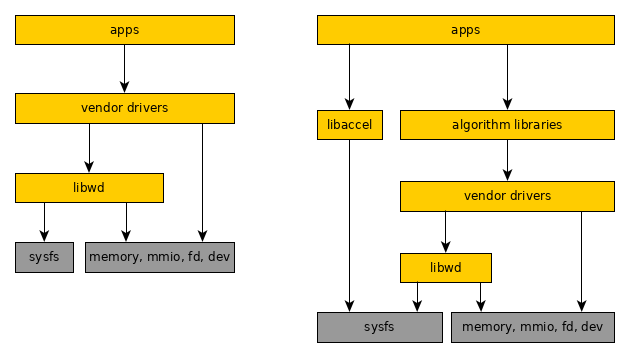
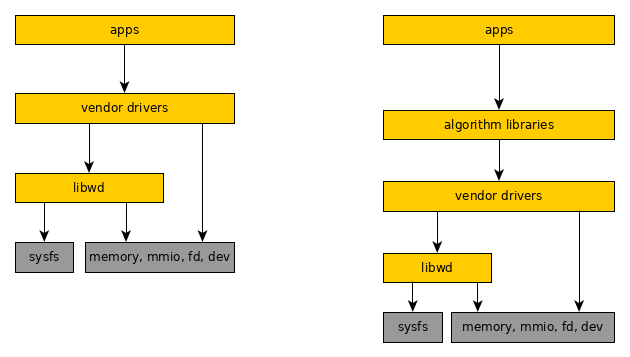
doc/wd_design: revision 0.104
Merge libaccel into libwd.

diff --git a/docs/wd_design.md b/docs/wd_design.md
@@ -54,6 +54,7 @@
 |         |                |2) Fix typo error. |
 |         |                |3) Add context as parameter of wd_is_nosva(). |
 |         |                |4) Adjust the layout. |
+|  0.104  |                |1) Merge libaccel into libwd. |
 
 
 ## Terminology
@@ -71,7 +72,7 @@
 
 WarpDrive is a framework for user application to access hardware accelerator 
 in a unified, secure, and efficient way. WarpDrive is comprised of UACCE, 
-libwd, libaccel and many other algorithm libraries for different applications.
+libwd and many other algorithm libraries for different applications.
 
 ![overview](./wd_overview.png)
 
@@ -83,12 +84,10 @@ functions to do UACCE related work.
 Algorithm libraries offer a set of APIs to users, who could use this set of 
 APIs to do specific task without accessing low level implementations.
 
-Libaccel offers the ability to choose a right accelerator.
-
 So two mechanisms are provided to user application. User application could 
 either access libwd or algorithm libraries.
 
-This document focuses on the design of libwd, libaccel and algorithm libraries.
+This document focuses on the design of libwd and algorithm libraries.
 
 
 ## Based Technology
@@ -212,6 +211,102 @@ enum uacce_qfrt qfrt);***
 
 qfrt means queue file region type. The details could be found in UACCE kernel 
 patch set <https://lkml.org/lkml/2019/11/22/1728>.
+
+
+### Categorize Accelerators
+
+*wd_request_ctx()* only opens the specified hardware accelerator. If there're 
+mulitple hardware accelerators in system, vendor driver should decide to open 
+which accelerator. Libwd helps to categorize accelerators. It provides a set of 
+hardware accelerators that match the same requirement. Vendor driver or 
+application could make a decision based on the set.
+
+When each hardware accelerator registers in UACCE subsystem, it gets an ID that 
+is attached in the device name. And the ID information is exposed to user space 
+by sysfs. So libwd could parse IDs from sysfs and make use of them.
+
+```
+    #define MAX_ACCELS               512
+    #define MAX_WORDS_FOR_ACCELS     (MAX_ACCELS / 32)
+    
+    struct wd_dev_mask {
+        unsigned int    mask[MAX_WORDS_FOR_ACCELS];
+    };
+    typedef struct wd_dev_mask    wd_dev_mask_t;
+```
+
+MAX_ACCELS is predefined in libwd. Now MAX_ACCELS is 512 that means 512 
+accelerators are supported in the same time. Each accelerator could be denoted 
+by one bit. So 512 bits could be covered by 16 words. These 16 words are the 
+masks, *wd_dev_mask_t*. If more accelerators need to be supported, just extend 
+the value of MAX_ACCELS in WarpDrive. The lowest bit indicates the hardware 
+accelerator 0.
+
+***int wd_get_accel_mask(char \*alg_name, wd_dev_mask_t \*dev_mask);***
+
+| Layer | Parameter | Direction | Comments |
+| :-- | :-- | :-- | :-- |
+| libwd | *alg_name* | Input  | Indicate the name of algorithm. |
+|       | *dev_mask* | Output | Indicate the mask bits of valid UACCE |
+|       |            |        | devices matched with the algorithm. |
+
+Return 0 if it finds accelerators matched with *alg_name*. Otherwise, it 
+returns negative value.
+
+***int wd_get_numa_accel_mask(int id, wd_dev_mask_t \*dev_mask);***
+
+| Layer | Parameter | Direction | Comments |
+| :-- | :-- | :-- | :-- |
+| libwd | *id*       | Input  | Indicate the ID of accelerator in UACCE |
+|       |            |        | subsystem. |
+|       | *dev_mask* | Output | Indicate the mask bits of valid UACCE |
+|       |            |        | devices in the same NUMA node range. |
+
+
+*wd_get_numa_accel_mask()* only wants to find the accelerators in the range of 
+the same NUMA node. Return 0 if it succeeds. Return negative value if it fails.
+
+In the same NUMA node, memory should be in the equal distance from different 
+devices. User application should gain better performance on it if data needs 
+to be shared among different accelerators.
+
+*wd_get_numa_accel_mask()* returns the set of matched accelerators that are in 
+the range of the same NUMA node. The set is stored in *dev_mask*. The return 
+value is 0 if the set is found. The return value is negative value if it fails 
+to find the set.
+
+*wd_get_numa_accel_mask()* queries the set of matched accelerators. Then 
+application could choose an accelerator in this set. And the key is in the 
+*dev_mask* value.
+
+
+The model of usage case is in below.
+
+Case 1:
+
+Vendor driver calls *wd_get_accel_mask(alg_name, dev_mask, ...)* to get the 
+set of accelerators. Vendor driver or application could choose a right 
+accelerator from the set.
+
+Case 2:
+
+An application needs to access resources on multiple accelerators for different 
+algorithms, and it hopes all accelerators in the same NUMA range for better 
+performance. Vendor driver calls *wd_get_accel_mask(alg_name, ...)* to finds 
+available accelerators for one algorithm in a set.
+
+Then application picks up one accelerator from the set, and calls 
+*wd_get_numa_accel_mask()* to finds all accelerators in the same NUMA range by 
+another vendor driver.
+
+With the combination of different sets, application could finally get a set 
+matches its requirement. Finally the right accelerator could be chosen from 
+the set.
+
+Case 3:
+
+An application calls algorithm library directly with uninitialized value in 
+*dev_mask*. Algorithm finds an avaialbe accelerator automatically.
 
 
 ## Vendor Driver
@@ -504,116 +599,6 @@ allocate a *context* by *wd_request_ctx()*.
 When application wants to free the accelerator, *wd_alg_comp_free_sess()* is 
 used. It'll execute *wd_alg_comp->exit(sess)* to free those contexts by 
 *wd_release_ctx()*.
-
-
-## Libaccel
-
-If there're multiple hardware accelerators in system, application may hope 
-WarpDrive could choose a right accelerator when application is using 
-algorithm library interface. Libaccel could take this job.
-
-
-### Libaccel APIs
-
-Libaccel is used to provide a set of hardware accelerators that match the same 
-requirement to applications. Libaccel isn't the requisite component in 
-Warpdrive framework. If applications access vendor driver directly, only the 
-accelerator matched with driver could be accessed.
-
-If applications only access algorithm libraries, libaccel provides the set of 
-accelerators to application. Applications could figure out a range where 
-algorithm libraries will choose accelerators.
-
-When libaccel works, it distinguishs different accelerators by ID. When each 
-hardware accelerator registers in UACCE subsystem, it gets an ID that is 
-attached in the device name. And the ID information is exposed to user space 
-by sysfs. So libaccel could parse IDs from sysfs and make use of them.
-
-```
-    #define MAX_ACCELS               512
-    #define MAX_WORDS_FOR_ACCELS     (MAX_ACCELS / 32)
-    
-    struct wd_dev_mask {
-        unsigned int    mask[MAX_WORDS_FOR_ACCELS];
-    };
-    typedef struct wd_dev_mask    wd_dev_mask_t;
-```
-
-MAX_ACCELS is predefined in WarpDrive. Now MAX_ACCELS is 512 that means 512 
-accelerators are supported in the same time. Each accelerator could be denoted 
-by one bit. So 512 bits could be covered by 16 words. These 16 words are the 
-masks, *wd_dev_mask_t*. If more accelerators need to be supported, just extend 
-the value of MAX_ACCELS in WarpDrive. The lowest bit indicates the hardware 
-accelerator 0.
-
-***int wd_get_accel_mask(char \*alg_name, wd_dev_mask_t \*dev_mask);***
-
-| Layer | Parameter | Direction | Comments |
-| :-- | :-- | :-- | :-- |
-| libaccel | *alg_name* | Input  | Indicate the name of algorithm. |
-|          | *dev_mask* | Output | Indicate the mask bits of valid UACCE |
-|          |            |        | devices matched with the algorithm. |
-
-Return 0 if it finds accelerators matched with *alg_name*. Otherwise, it 
-returns negative value.
-
-***int wd_get_numa_accel_mask(int id, wd_dev_mask_t \*dev_mask);***
-
-| Layer | Parameter | Direction | Comments |
-| :-- | :-- | :-- | :-- |
-| libaccel | *id*       | Input  | Indicate the ID of accelerator in UACCE |
-|          |            |        | subsystem. |
-|          | *dev_mask* | Output | Indicate the mask bits of valid UACCE |
-|          |            |        | devices in the same NUMA node range. |
-
-
-*wd_get_numa_accel_mask()* only wants to find the accelerators in the range of 
-the same NUMA node. Return 0 if it succeeds. Return negative value if it fails.
-
-In the same NUMA node, memory should be in the equal distance from different 
-devices. User application should gain better performance on it if data needs 
-to be shared among different accelerators.
-
-*wd_get_numa_accel_mask()* returns the set of matched accelerators that are in 
-the range of the same NUMA node. The set is stored in *dev_mask*. The return 
-value is 0 if the set is found. The return value is negative value if it fails 
-to find the set.
-
-*wd_get_numa_accel_mask()* queries the set of matched accelerators. Then 
-application could choose an accelerator in this set. And the key is in the 
-*dev_mask* value.
-
-
-The model of usage case is in below.
-
-Case 1:
-
-An application calls *wd_get_accel_mask(alg_name, dev_mask, ...)* to get the 
-set of accelerators. Then application could also access the *dev_mask* and 
-provide it as the parameter to algorithm library, such as 
-*wd_alg_comp_alloc_sess()*. Algorithm library selects an accelerator 
-automatically.
-
-Case 2:
-
-An application needs to access resources on multiple accelerators for different 
-algorithms, and it hopes all accelerators in the same NUMA range for better 
-performance. Application calls *wd_get_accel_mask(alg_name, ...)* to finds 
-available accelerators for one algorithm in a set.
-
-Then application picks up one accelerator from the set, and calls 
-*wd_get_numa_accel_mask()* to finds all accelerators in the same NUMA range.
-
-With the combination of different sets, application could finally get a set 
-matches its requirement. Then this set is used as parameter *dev_mask* when 
-algorithm library wants to allocate a session. Then algorithm library could 
-choose a high priority accelerator easily.
-
-Case 3:
-
-An application calls algorithm library directly with uninitialized value in 
-*dev_mask*. Algorithm finds an avaialbe accelerator automatically. In this 
-case, libaccel isn't used at all.
 
 
 ## Example
